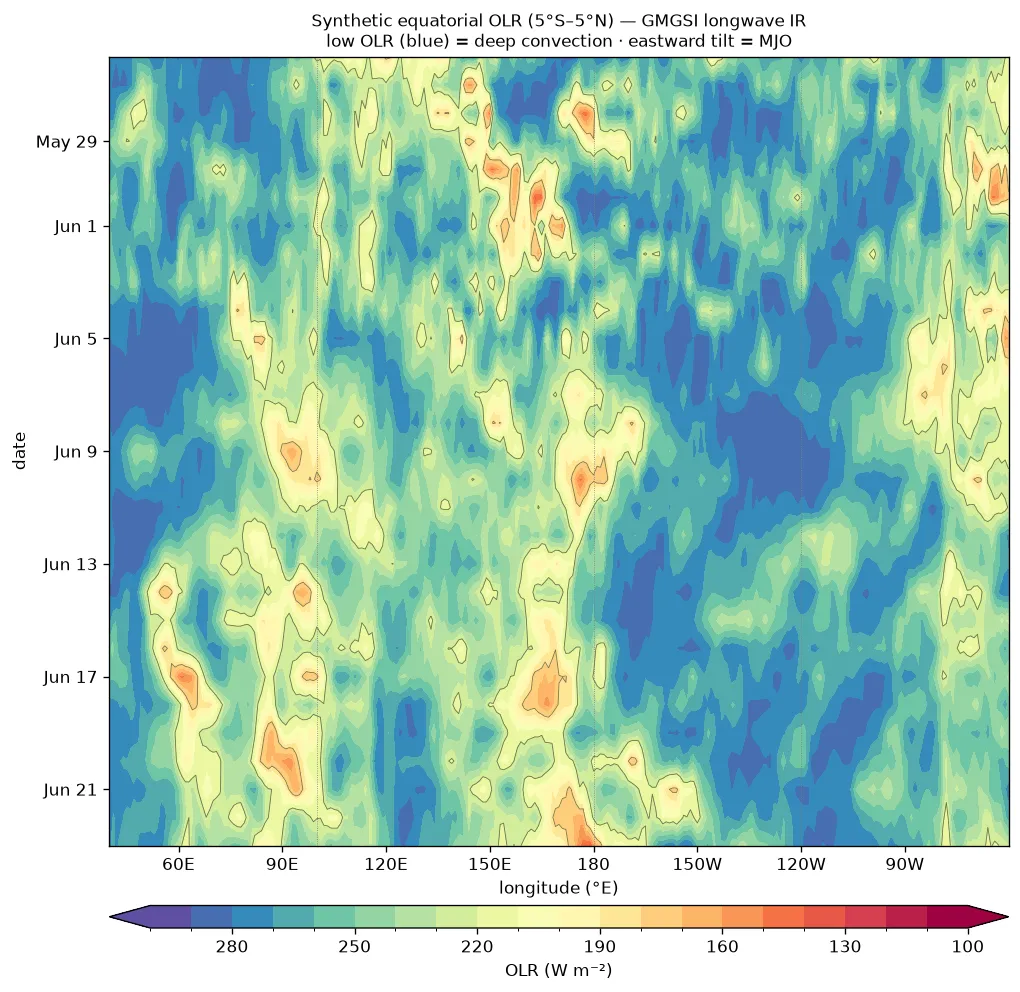
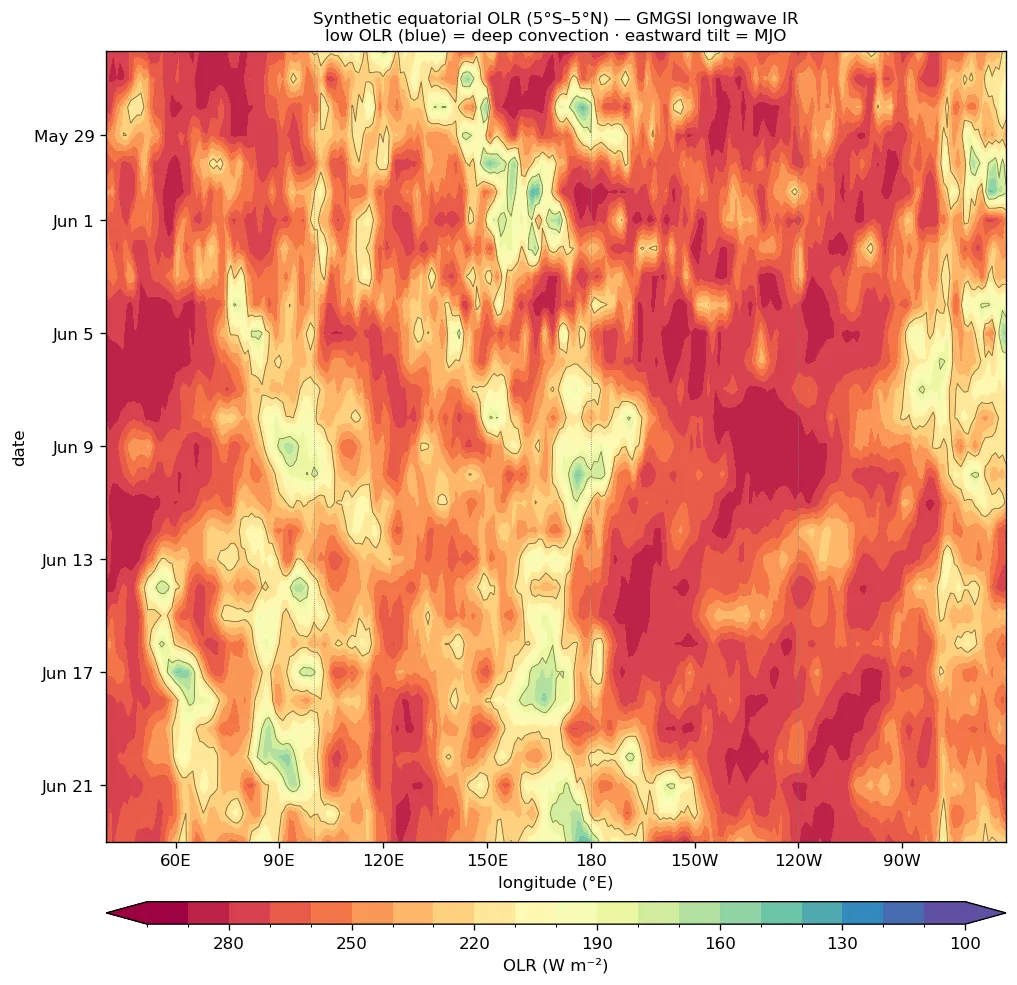
synthetic_olr: reverse the Hovmöller colormap so low OLR = blue (matches the label)
The plot used cmap "Spectral", which maps low OLR (deep convection) to RED and high OLR to
blue — the opposite of the "low OLR (blue) = deep convection" label and the standard MJO
convention. Switch to "Spectral_r" so deep convection reads blue/green and suppressed
(high OLR) reads warm. Re-rendered the live webp from the committed store.

diff --git a/scripts/sst/synthetic_olr.py b/scripts/sst/synthetic_olr.py
@@ -107,7 +107,7 @@ def build_days(da, dates):
 def render(da, out: Path):
     daily = da.dropna("time", how="all")
     t = pd.to_datetime(daily.time.values); lon = daily.lon.values
-    cmap = plt.get_cmap("Spectral")
+    cmap = plt.get_cmap("Spectral_r")   # low OLR (deep convection) → blue, high OLR → warm
     fig, ax = plt.subplots(figsize=(8.6, 9))
     pm = ax.contourf(lon, t, daily.values, levels=OLR_LEV, cmap=cmap,
                      norm=BoundaryNorm(OLR_LEV, cmap.N), extend="both")
